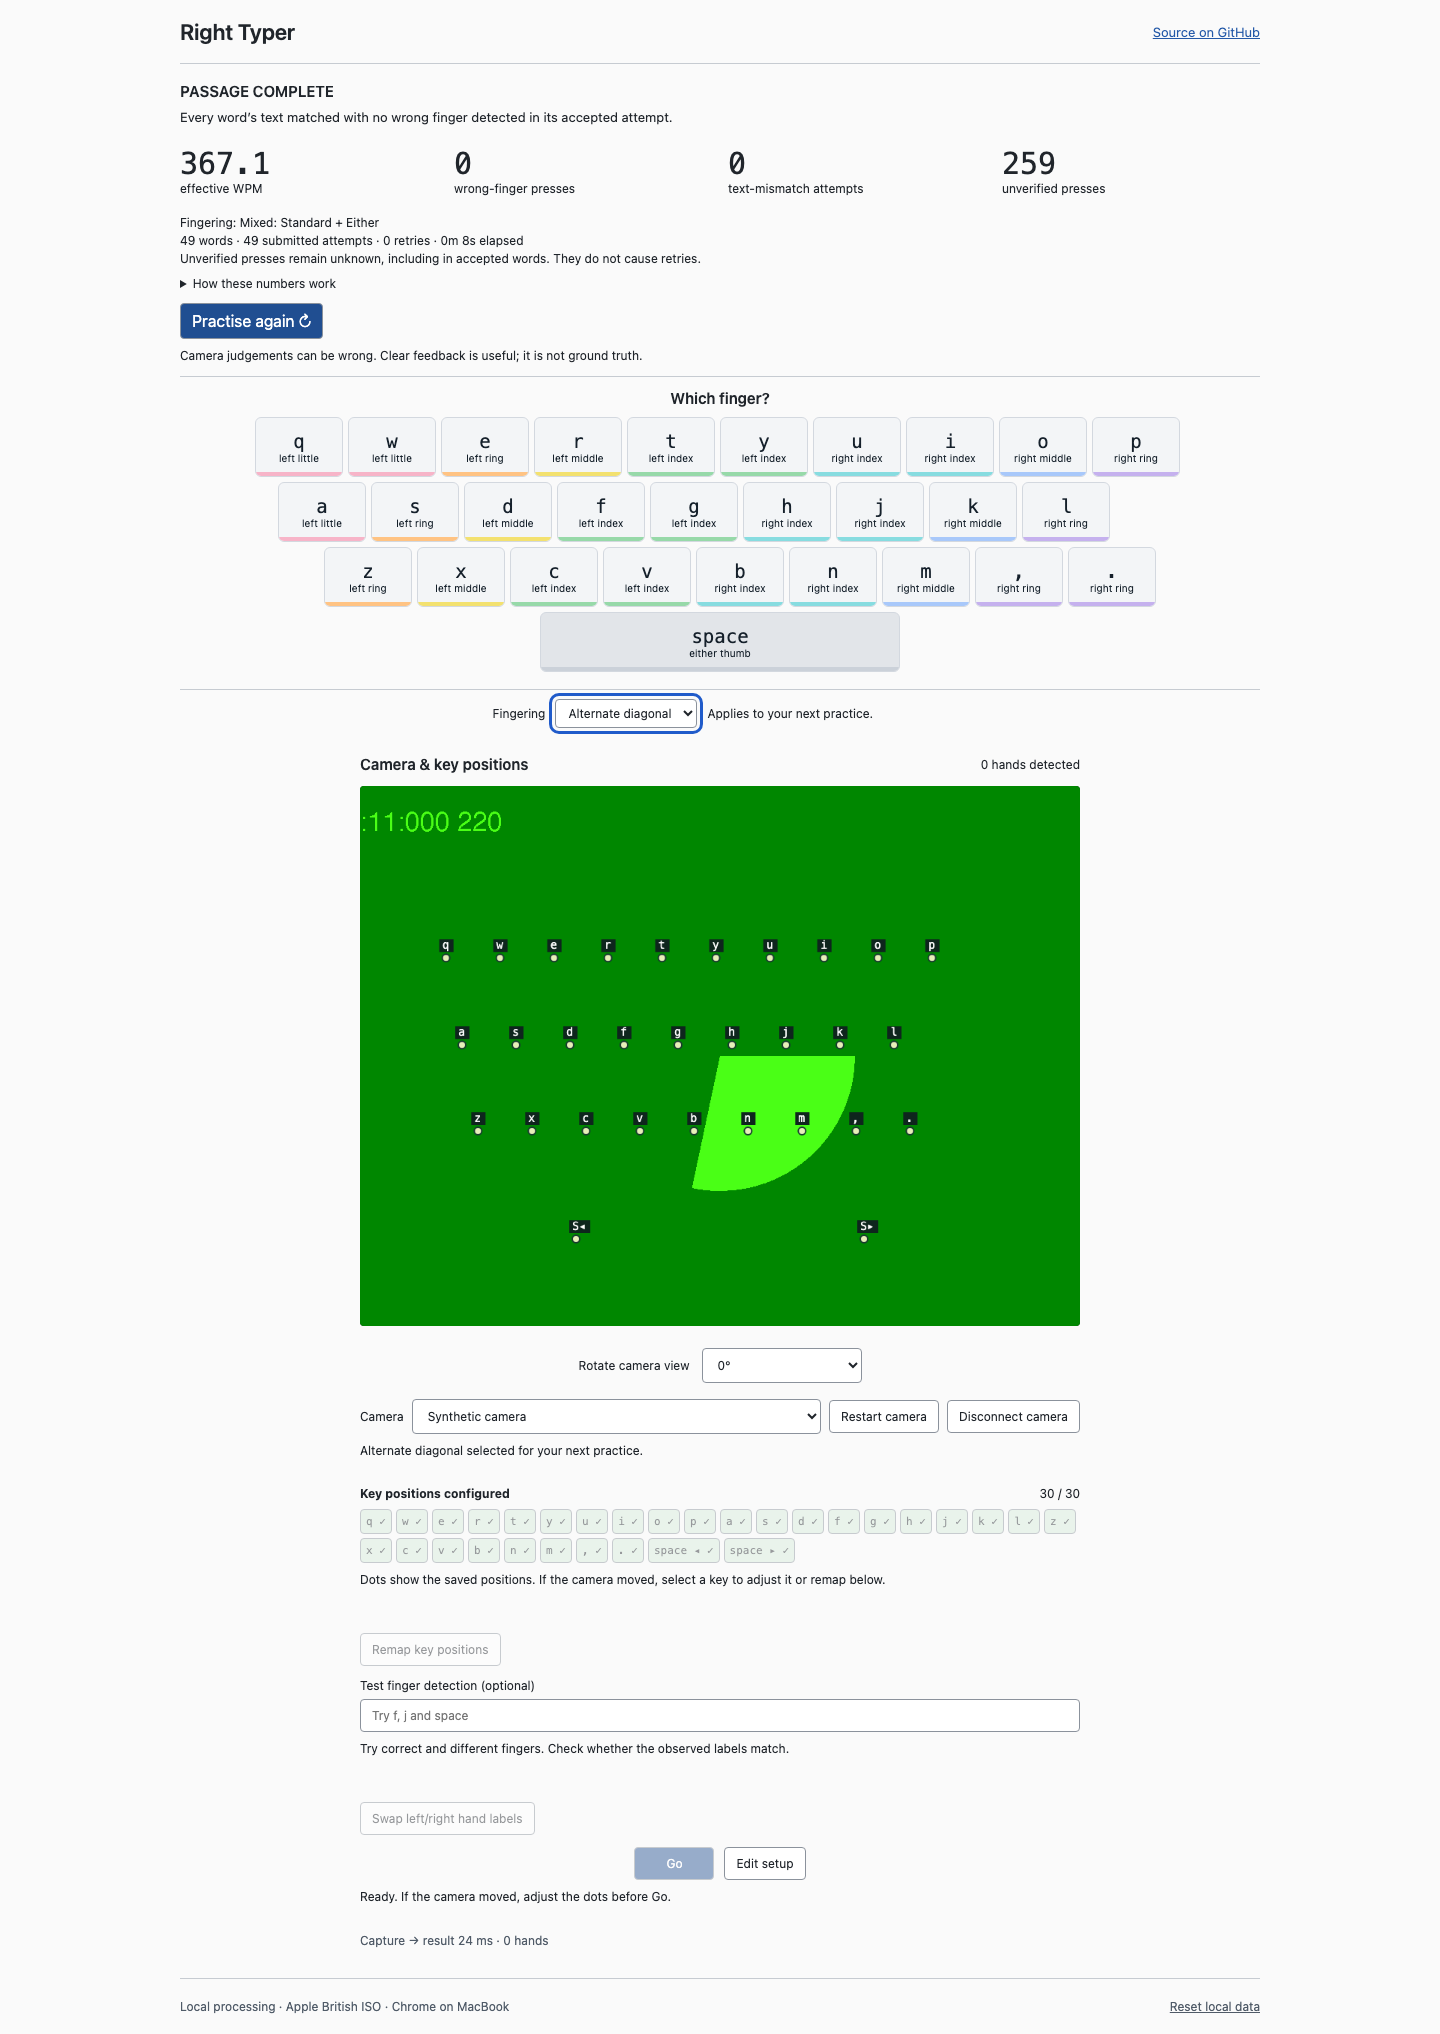
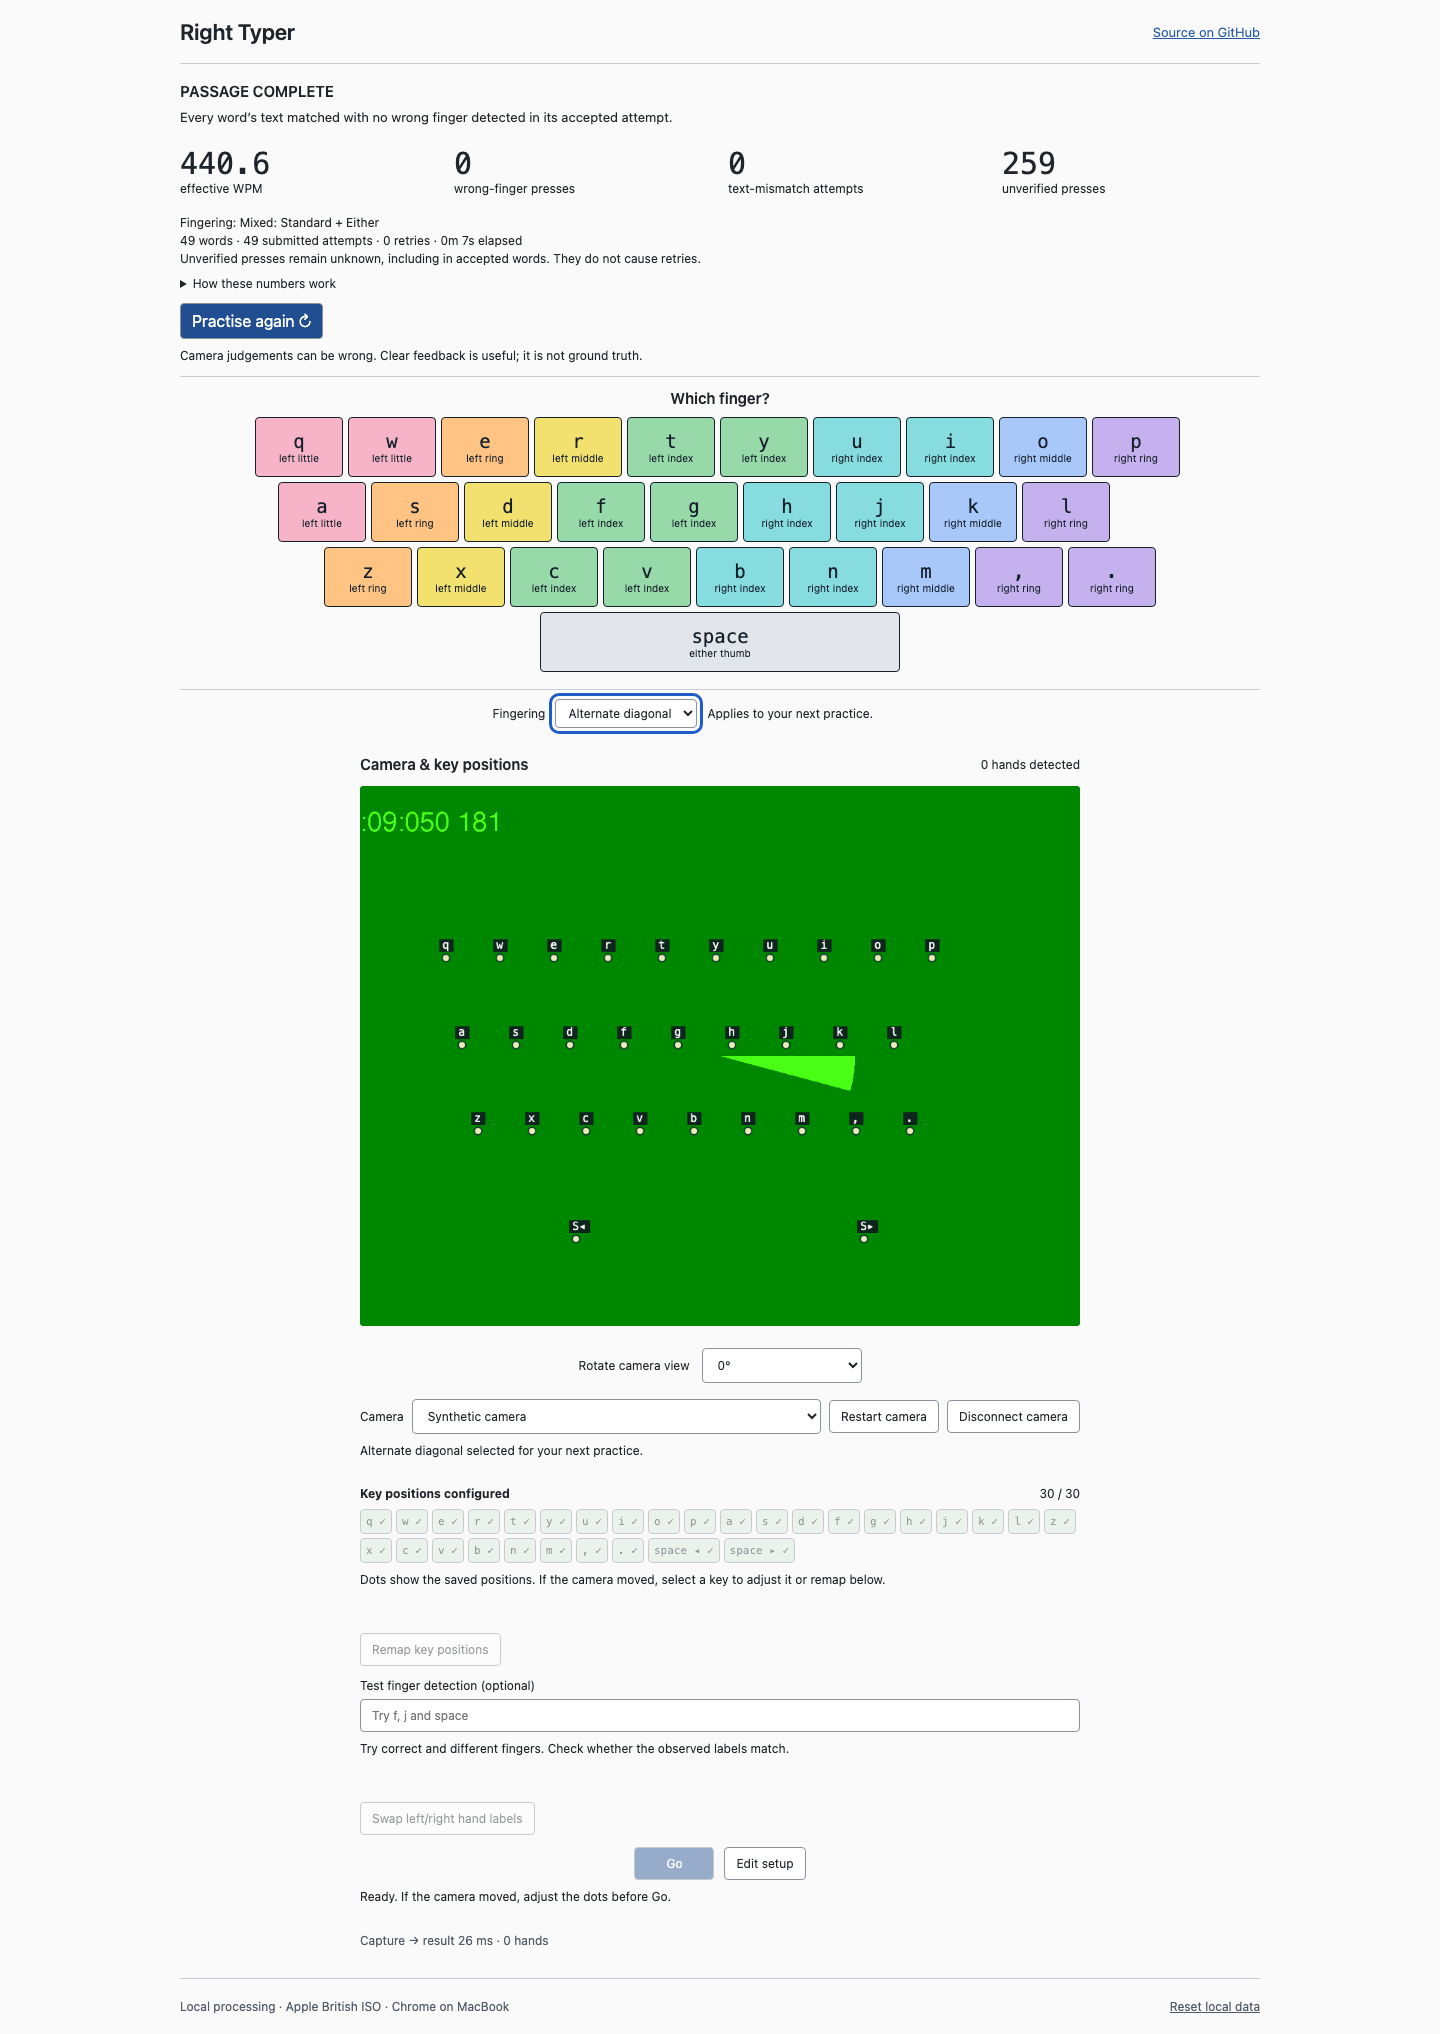
Restore full key colours with continuous finger bands (#16)

Changed region(s): [[0.1562, 0.1858, 0.8438, 0.3097], [0.4688, 0.4956, 0.5938, 0.5885], [0.125, 0.0619, 0.1875, 0.0929]]

diff --git a/src/main.ts b/src/main.ts
@@ -113,8 +113,21 @@ function store() {
   $('#storage-warning').hidden = !storageWarning;
 }
 function keyboard() {
+  // Physical left-to-right order keeps split keys aligned with neighbouring colour bands.
+  const colourOrder = [
+    'left-little',
+    'left-ring',
+    'left-middle',
+    'left-index',
+    'right-index',
+    'right-middle',
+    'right-ring',
+    'right-little',
+  ];
   const key = (k: string) => {
-    const fingers = allowedFingers(k, fingeringMode);
+    const fingers = allowedFingers(k, fingeringMode).sort(
+      (a, b) => colourOrder.indexOf(a) - colourOrder.indexOf(b),
+    );
     const label = intended(k, fingeringMode);
     const names = fingers.map(fingerName);
     const [first, second] = fingers;
@@ -128,7 +141,7 @@ function keyboard() {
             : names.join('/');
     const background =
       fingers.length === 2 && k !== ' '
-        ? `--key-accent:linear-gradient(90deg,var(--${fingers[0]}) 50%,var(--${fingers[1]}) 50%)`
+        ? `background:linear-gradient(90deg,var(--${fingers[0]}) 50%,var(--${fingers[1]}) 50%)`
         : '';
     return `<span class="key ${k === ' ' ? 'space-key' : `finger-${fingers[0]}`}" style="${background}" title="${label}" aria-label="${keyName(k)}: ${label}" data-key="${k}"><b>${k === ' ' ? 'space' : k}</b><small>${compactLabel}</small></span>`;
   };

diff --git a/src/style.css b/src/style.css
@@ -262,19 +262,9 @@ main {
   align-items: center;
   width: 88px;
   height: 60px;
-  position: relative;
-  overflow: hidden;
-  border: 1px solid #d3d8df;
-  border-radius: 6px;
-  background: #f3f5f7;
+  border: 1px solid currentColor;
+  border-radius: 4px;
   color: #15202b;
-}
-.key::after {
-  content: '';
-  position: absolute;
-  inset: auto 0 0;
-  height: 4px;
-  background: var(--key-accent, #cbd1d9);
 }
 .key b {
   font: 19px var(--mono);
@@ -287,28 +277,28 @@ main {
   text-align: center;
 }
 .finger-left-little {
-  --key-accent: var(--left-little);
+  background: var(--left-little);
 }
 .finger-left-ring {
-  --key-accent: var(--left-ring);
+  background: var(--left-ring);
 }
 .finger-left-middle {
-  --key-accent: var(--left-middle);
+  background: var(--left-middle);
 }
 .finger-left-index {
-  --key-accent: var(--left-index);
+  background: var(--left-index);
 }
 .finger-right-index {
-  --key-accent: var(--right-index);
+  background: var(--right-index);
 }
 .finger-right-middle {
-  --key-accent: var(--right-middle);
+  background: var(--right-middle);
 }
 .finger-right-ring {
-  --key-accent: var(--right-ring);
+  background: var(--right-ring);
 }
 .finger-right-little {
-  --key-accent: var(--right-little);
+  background: var(--right-little);
 }
 .space-key {
   width: 360px;

diff --git a/e2e/fingering.spec.ts b/e2e/fingering.spec.ts
@@ -35,13 +35,18 @@ test('policies update labels, hints, errors and preserve camera geometry; refres
       const cell = page.locator(`[data-key="${key}"]`);
       await expect(cell).toHaveAttribute('title', intended(key, value));
       await expect(cell).toHaveAttribute('aria-label', new RegExp(intended(key, value)));
-      const split = await cell.evaluate((el) => getComputedStyle(el, '::after').backgroundImage);
+      const split = await cell.evaluate((el) => getComputedStyle(el).backgroundImage);
       expect(split.includes('linear-gradient')).toBe(
         key !== ' ' && allowedFingers(key, value).length === 2,
       );
     }
     expect(await geometry()).toEqual(initial);
   }
+  // W must continue Q's pink band into E's orange band, rather than reversing them.
+  await expect(page.locator('[data-key="w"]')).toHaveCSS(
+    'background-image',
+    'linear-gradient(90deg, rgb(247, 180, 200) 50%, rgb(255, 195, 131) 50%)',
+  );
   await page.screenshot({ path: 'docs/images/fingering-either-synthetic.png', fullPage: true });
   await mode.selectOption('alternate');
   await press(page, 'c', 'left-middle');
